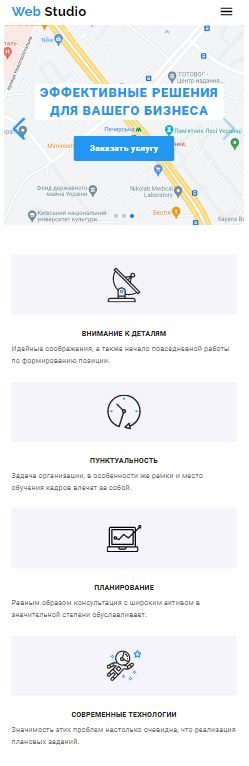
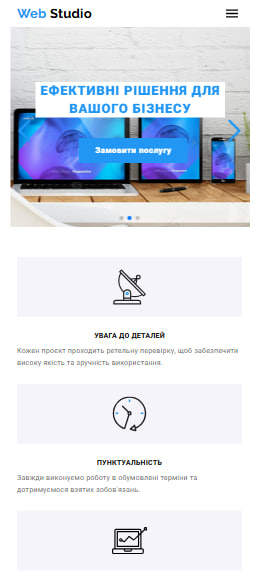
Змінила картинки для WebStudio

diff --git a/index.html b/index.html
@@ -47,9 +47,9 @@ fclose($myfile);
                     <div class="container-img">
                         <img style="display: block; height: 500px; margin-right: 10px;" src="./images/WebStudio.JPG"
                             alt="WebStudio версія на ПК">
-                        <img style="display: block; width: 240px; height: 500px; margin-right: 10px;" src="./images/WebStudio2.JPG"
+                        <img style="display: block; width: 340px; height: 500px; margin-right: 10px;" src="./images/WebStudio2.JPG"
                             alt="WebStudio версія на планшет">
-                        <img style="display: block; width: 150px; height: 500px;" src="./images/WebStudio3.JPG"
+                        <img style="display: block; width: 200px; height: 500px;" src="./images/WebStudio3.JPG"
                             alt="WebStudio мобільна версія">
                     </div>
                 </li>
@@ -130,8 +130,8 @@ fclose($myfile);
                     <a href="https://github.com/Tatiana-ok/WebStudio">Code link</a>
                     <div class="container-img">
                         <img style="display: block; height: 500px; margin-right: 10px;" src="./images/WebStudio.JPG" alt="WebStudio laptop version">
-                        <img style="display: block; width: 240px; height: 500px; margin-right: 10px;" src="./images/WebStudio2.JPG" alt="WebStudio tablet version">
-                        <img style="display: block; width: 150px; height: 500px;" src="./images/WebStudio3.JPG" alt="WebStudio mobile version">
+                        <img style="display: block; width: 340px; height: 500px; margin-right: 10px;" src="./images/WebStudio2.JPG" alt="WebStudio tablet version">
+                        <img style="display: block; width: 200px; height: 500px;" src="./images/WebStudio3.JPG" alt="WebStudio mobile version">
                     </div>
                 </li>
                 <li>